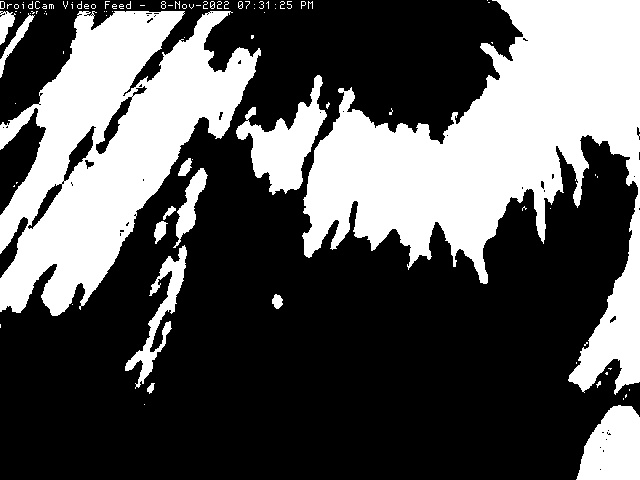
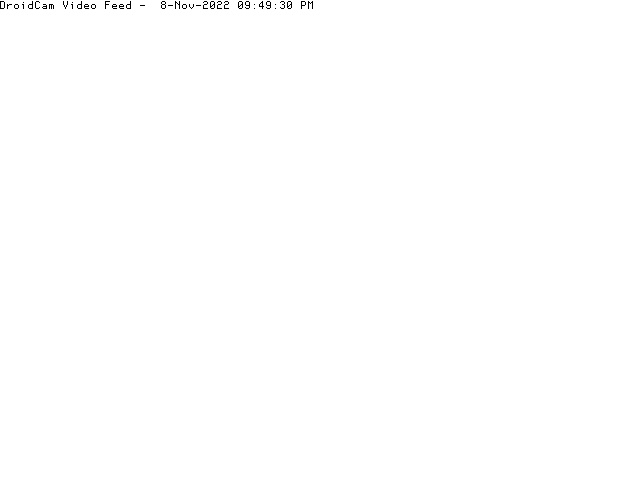
Update

diff --git a/practice.py b/practice.py
@@ -25,7 +25,7 @@ thresh= 120
 maxval=255
 
 # 鏡頭
-vid = cv2.VideoCapture('http://192.168.1.117:4747/mjpegfeed') # /video
+vid = cv2.VideoCapture('http://192.168.43.56:4747/mjpegfeed') # /video
 # cv2.namedWindow(cv2.WINDOW_NORMAL)
 while (vid.isOpened()):
 	
@@ -36,15 +36,10 @@ while (vid.isOpened()):
 	# Display the resulting frame
     
 	c=cv2.waitKey(1)
-	if c == 13:
+	if c == 13: #enter button
 		cv2.imwrite('mypict.jpg',frame)
 		break
-		# #自適應閾值
-		# dst_mean = cv2.adaptiveThreshold(img,maxval,cv2.ADAPTIVE_THRESH_MEAN_C,cv2.THRESH_BINARY,3,5)
-		# dst_gauss=cv2.adaptiveThreshold(img,maxval,cv2.ADAPTIVE_THRESH_GAUSSIAN_C,cv2.THRESH_BINARY,5,-1)
-		# cv2.imshow('adaptiveThreshold',dst_mean)
-		# cv2.imshow("ADAPTIVE_THRESH_GAUSSIAN_C",dst_gauss)
-	if c==27:
+	if c==27: # esc button
 		break
 	# the 'q' button is set as the
 	# quitting button you may use any
@@ -56,22 +51,25 @@ cv2.destroyWindow('output')
 img = cv2.imread("mypict.jpg")
 thresh= 150
 maxval=255
-window("white_hair")
-window("white_hair_region")
-img_gray = cv2.cvtColor(img, cv2.COLOR_BGR2GRAY)
+window("gray_hair")
+window("gray_hair_region")
+# 取高斯平滑
+img = cv2.GaussianBlur(img, (3, 3), 0)
+kernel = np.ones((3,3), np.uint8)
+erosion = cv2.erode(img, kernel, iterations = 1)
+img_gray = cv2.cvtColor(erosion, cv2.COLOR_BGR2GRAY)
 ret,dst=cv2.threshold(img_gray,thresh,maxval,cv2.THRESH_BINARY)
 contours,hierarchy=cv2.findContours(dst,cv2.RETR_TREE,cv2.CHAIN_APPROX_NONE)
 image_copy = img.copy()
 cv2.drawContours(image_copy, contours, -1, (0, 255, 0),2, cv2.LINE_AA)
-cv2.imshow("white_hair",dst)
-cv2.imshow("white_hair_region",image_copy)
+cv2.imshow("dst",dst)
+cv2.imshow("image_copy",image_copy)
 cv2.waitKey(0)
-cv2.imwrite("white_hair.jpg",dst)
-cv2.imwrite("white_hair_region.jpg",image_copy)
 cv2.destroyAllWindows()
 # cv2.imwrite('dst.jpg',dst)
 # cv2.imwrite('image_copy.jpg',image_copy)
 
+## 遮罩
 # ret,mask1=cv2.threshold(img_gray,thresh,maxval,cv2.THRESH_BINARY)
 # maskcolor = cv2.cvtColor(mask1)
 # res1 = cv2.add(ori,mask1)
@@ -79,6 +77,5 @@ cv2.destroyAllWindows()
 # ori = cv2.bitwise_and(ori,ori,mask = mask1)
 # img = cv2.bitwise_and(img,img,mask = mask1)
 # cv2.addWeighted(ori,)
-
 # cv2.waitKey(0)
 # cv2.destroyAllWindows()
